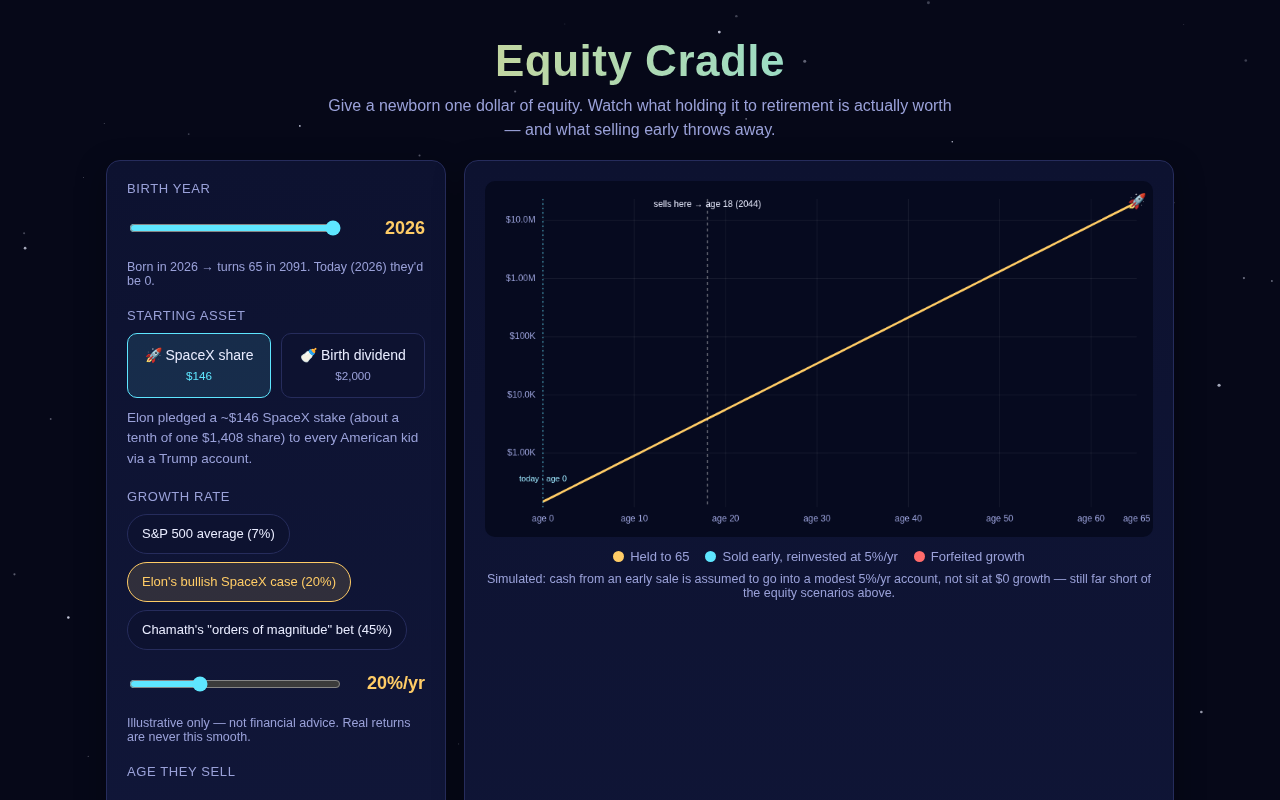
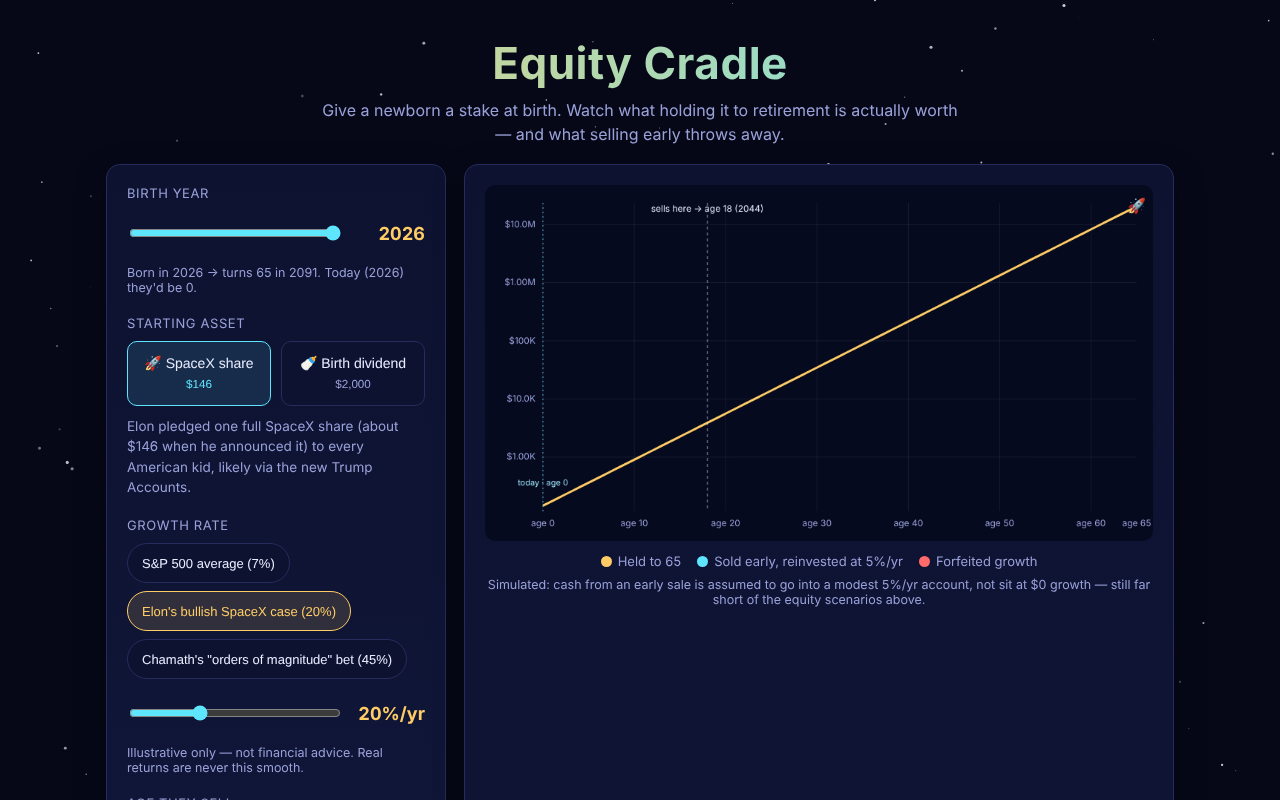
fix(ep304-equity-cradle): one SpaceX share per kid, ~$146
Musk pledged one whole SpaceX share per kid (~$146 at the time, ~$10.5B
for ~72M kids). The demo said "a tenth of one $1,408 share"; the $1,408
price was made up. Also soften the Trump Accounts route (reported, not
confirmed by Musk) and fix the "one dollar of equity" tagline.

Claude-Session: https://claude.ai/code/session_01EnaBv3Yo3wo61w3w64CNY7

diff --git a/prototypes/ep304-equity-cradle/app.js b/prototypes/ep304-equity-cradle/app.js
@@ -5,12 +5,12 @@
     kids_count: 72000000,
     total_gift_usd: 10500000000,
     spacex_gift_per_kid_usd: 146,
-    spacex_share_price_usd: 1408,
+    spacex_share_price_usd: 146,
     dell_gift_per_kid_usd: 250,
     birth_dividend_usd: 2000,
     assets: [
-      { id: "spacex", label: "SpaceX fractional share", principal: 146,
-        blurb: "Elon pledged a ~$146 SpaceX stake (about a tenth of one $1,408 share) to every American kid via a Trump account." },
+      { id: "spacex", label: "One SpaceX share", principal: 146,
+        blurb: "Elon pledged one full SpaceX share (about $146 when he announced it) to every American kid, likely via the new Trump Accounts." },
       { id: "dividend", label: "Birth dividend", principal: 2000,
         blurb: "Chamath proposed a locked $2,000 cash dividend at birth instead, left to compound untouched." }
     ],
@@ -150,8 +150,8 @@
     const totalB = (f.total_gift_usd / 1e9).toFixed(1);
     els.factsList.innerHTML = "";
     const items = [
-      `Elon pledged roughly $${f.spacex_gift_per_kid_usd} of SpaceX stock to each of ${kidsM} million American kids — about $${totalB}B total.`,
-      `A full SpaceX share was valued around $${f.spacex_share_price_usd.toLocaleString()}, so each kid's gift is a sliver of one share.`,
+      `Elon pledged one SpaceX share to each of ${kidsM} million American kids — about $${totalB}B total.`,
+      `One SpaceX share was worth about $${f.spacex_share_price_usd.toLocaleString()} when he announced it, so that's each kid's starting stake.`,
       `Chamath countered with a simpler idea: lock a $${f.birth_dividend_usd.toLocaleString()} cash dividend at birth instead of stock.`,
       `Michael Dell floated a $${f.dell_gift_per_kid_usd}/kid version too — the hosts debated who should fund it and whether kids would just cash out.`
     ];

diff --git a/prototypes/ep304-equity-cradle/index.html b/prototypes/ep304-equity-cradle/index.html
@@ -11,7 +11,7 @@
 
 <header class="hero">
   <h1>Equity Cradle</h1>
-  <p class="tagline">Give a newborn one dollar of equity. Watch what holding it to retirement is actually worth — and what selling early throws away.</p>
+  <p class="tagline">Give a newborn a stake at birth. Watch what holding it to retirement is actually worth — and what selling early throws away.</p>
 </header>
 
 <main>

diff --git a/prototypes/ep304-equity-cradle/README.md b/prototypes/ep304-equity-cradle/README.md
@@ -2,14 +2,14 @@
 
 ## What it is
 A compound-growth playground for the "give every kid a stake at birth" idea. Pick a
-starting asset — a ~$146 SpaceX fractional share or a $2,000 locked birth dividend — set
+starting asset — one SpaceX share (~$146) or a $2,000 locked birth dividend — set
 a growth-rate preset, then drag an "age they sell" slider and hit **Sell now** to see
 exactly how much future value gets forfeited by cashing out early versus holding to 65.
 
 ## Origin
 From Moonshots EP #304, "Chamath: AGI Is Here, Anthropic's $100B Giveaway, Elon's SpaceX
-Shares for 72M Kids," around 00:24:41. Elon pledged roughly one SpaceX share (~$146
-worth) to every American kid via a Trump account; Chamath countered with a proposal for
+Shares for 72M Kids," around 00:24:41. Elon pledged one SpaceX share (~$146
+at the time) to every American kid, likely via the new Trump Accounts; Chamath countered with a proposal for
 a simpler, locked $2,000 cash dividend at birth. The hosts debated whether kids would
 actually hold the stake or dump it immediately.
 
@@ -22,8 +22,8 @@ actually hold the stake or dump it immediately.
 5. Click **Hold instead** to reset and compare a different scenario.
 
 ## Real vs simulated
-- **Real (as stated on the podcast):** the $146/kid SpaceX gift figure, the ~$1,408
-  reference share price, the $2,000 birth-dividend proposal, the 72M kids / $10.5B total
+- **Real (as stated on the podcast):** one SpaceX share per kid at about $146 (the
+  share price when the pledge was made), the $2,000 birth-dividend proposal, the 72M kids / $10.5B total
   gift figures, and the $250/kid Dell comparison — all shown in the "From the episode"
   panel.
 - **Simulated:** the compound-growth curve itself. Growth-rate presets (7% historical
@@ -36,7 +36,7 @@ actually hold the stake or dump it immediately.
 - Let users compare both assets side by side on the same chart.
 - Add a toggle for the reinvestment rate on sold cash (currently a fixed 5%/yr default)
   so visitors can test more/less optimistic opportunity-cost scenarios.
-- Pull a live SpaceX secondary-market valuation (if a keyless public source exists) to
+- Pull a live SpaceX (SPCX) quote (if a keyless public source exists) to
   update the reference share price instead of a static bundled figure.
 - Add arrow-key navigation to the starting-asset radio group for full keyboard parity
   with native radio buttons.
